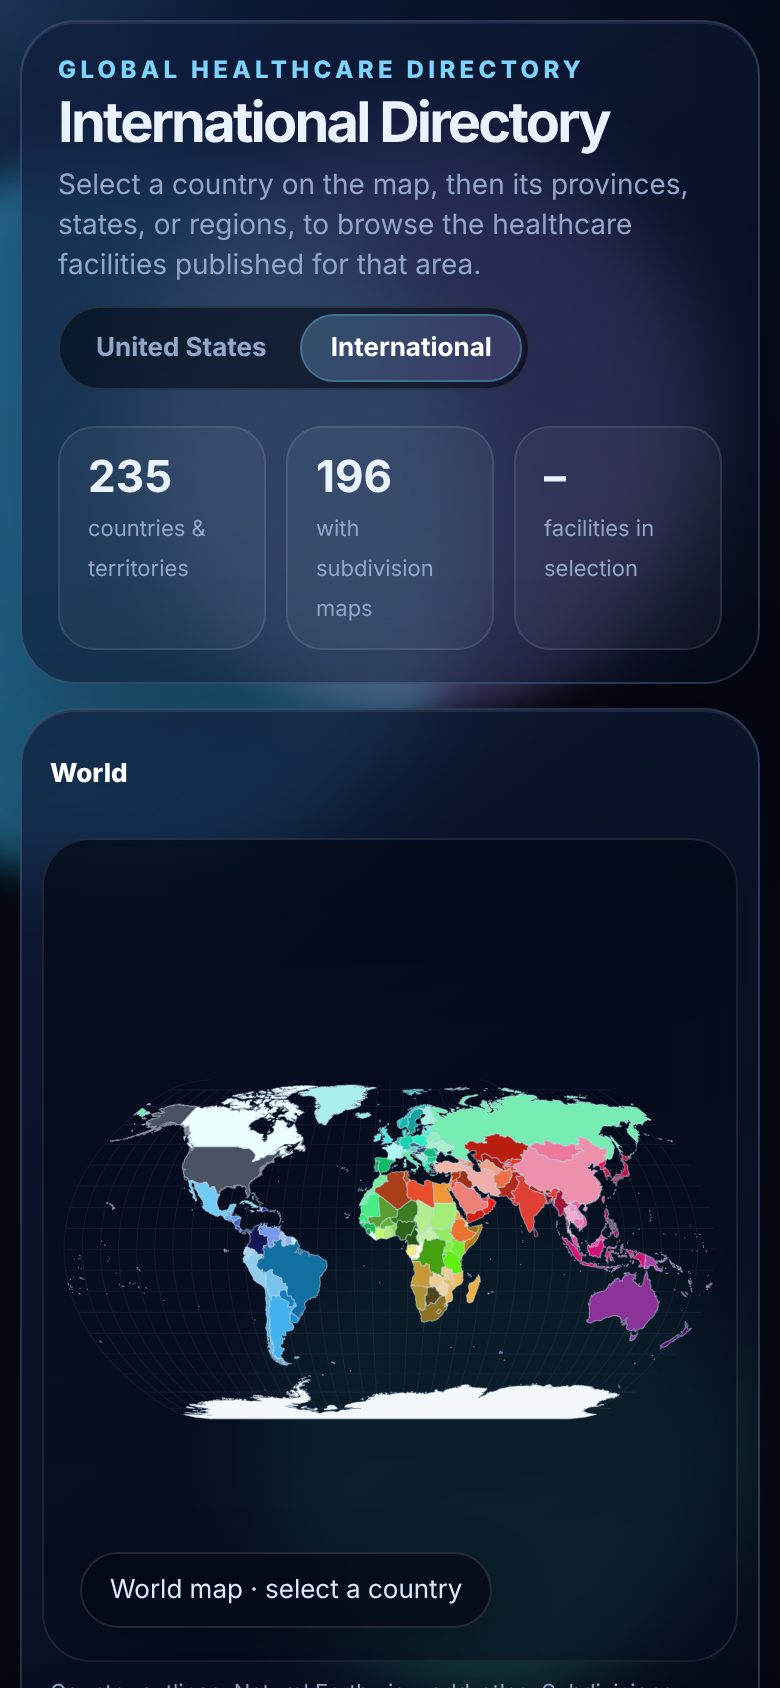
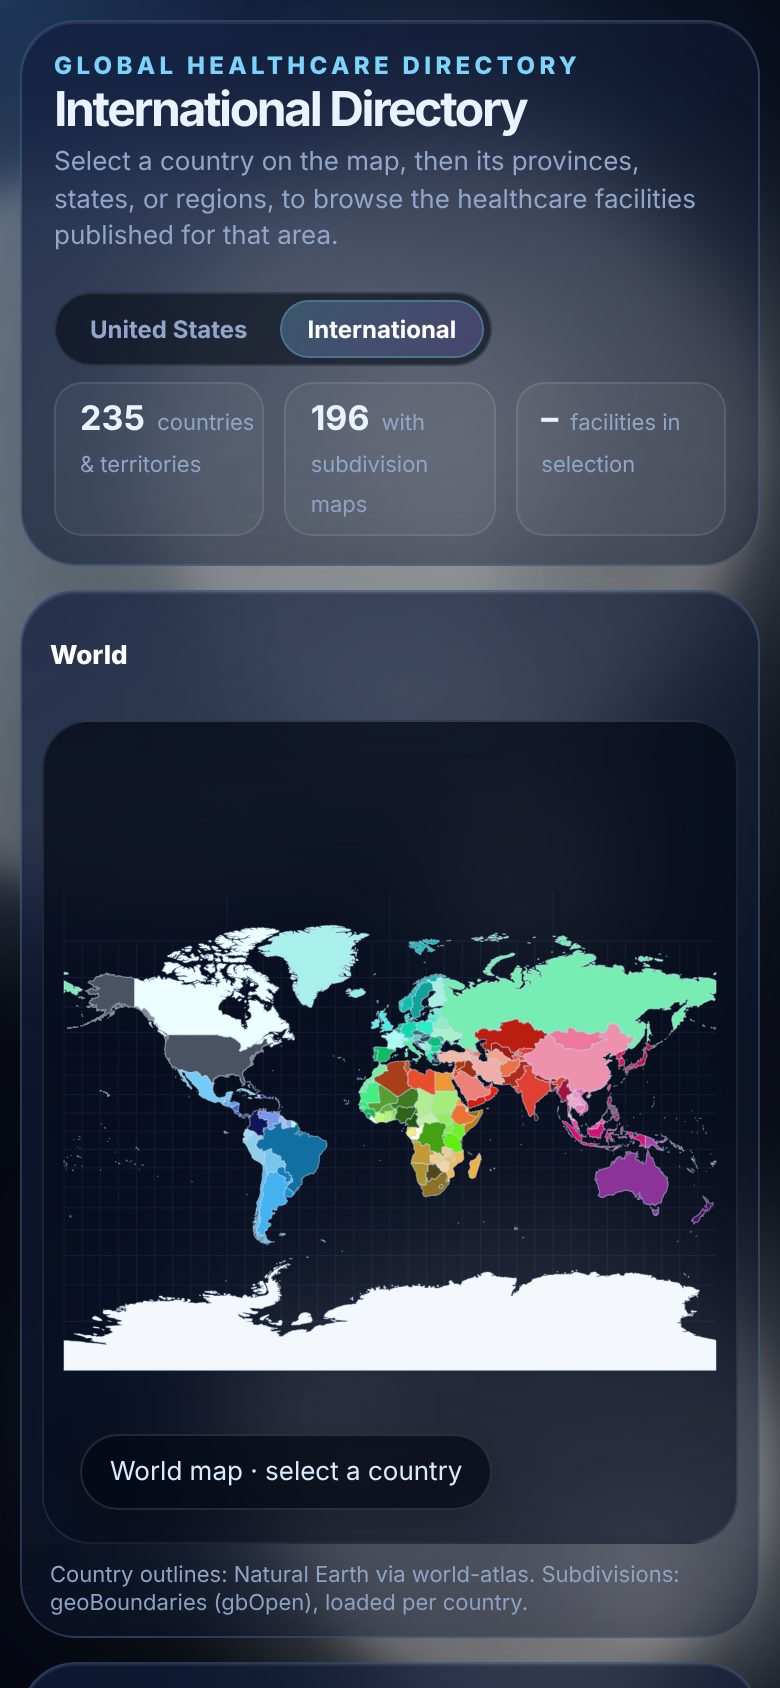
Flat Miller projection and a compact header with the toggle above the stats
- Replace the curved Natural Earth projection with a flat Miller cylindrical
  projection (straight meridians and parallels). Country views now re-centre
  east-west only instead of rotating onto the country, so Canada, Greenland
  and the Nordic countries are no longer curved or tilted.
- Header: the United States / International toggle moves above the stat cards
  on the right; title, subtitle and stats are compacted. Header height drops
  from ~200px to ~120px and the map area grows from ~640px to ~724px tall
  at 1600x1000.

Claude-Session: https://claude.ai/code/session_01Qy7vVREGma9DSC7PB3AgeL

diff --git a/assets/js/world-map.js b/assets/js/world-map.js
@@ -19,7 +19,12 @@ const directoryCountries = COUNTRIES.filter(c => !c.redirect && !c.noDirectory);
 const FLY_MS = 750;
 
 let width = 0, height = 0;
-const projection = d3.geoNaturalEarth1();
+/* Flat (cylindrical) Miller projection: straight meridians and parallels, no globe-like curvature,
+ * and the whole of Antarctica stays on the map. Country views only shift east–west, never tilt. */
+const millerRaw = (lambda, phi) => [lambda, 1.25 * Math.log(Math.tan(Math.PI / 4 + 0.4 * phi))];
+millerRaw.invert = (x, y) => [x, 2.5 * Math.atan(Math.exp(0.8 * y)) - 0.625 * Math.PI];
+const flatProjection = () => d3.geoProjection(millerRaw);
+const projection = flatProjection();
 const path = d3.geoPath(projection);
 let worldFeatures = [];
 let focusTarget = {target: {type: 'Sphere'}, rotate: [0, 0]};
@@ -58,15 +63,15 @@ function focusGeometry(feature) {
 
 function fitParams(target, rotate) {
   const pad = Math.max(16, Math.min(width, height) * 0.06);
-  const p = d3.geoNaturalEarth1().rotate(rotate).precision(0.2);
+  const p = flatProjection().rotate(rotate).precision(0.2);
   if (target.type === 'Sphere') p.fitExtent([[10, 10], [width - 10, height - 10]], target);
   else p.fitExtent([[pad, pad], [width - pad, height - pad]], target);
   return {r: rotate, k: p.scale(), t: p.translate()};
 }
-/* Centre the projection on a country so its meridians stand upright (no Natural Earth shear). */
+/* Centre the flat map on a country by shifting east–west only; tilting north–south would bend it. */
 function countryRotation(feature) {
-  const [lon, lat] = d3.geoCentroid(feature);
-  return [-lon, -lat];
+  const [lon] = d3.geoCentroid(feature);
+  return [-lon, 0];
 }
 
 /* Smoothly fly from the current view to `target`, then re-project every layer at full precision.

diff --git a/assets/css/world.css b/assets/css/world.css
@@ -138,10 +138,23 @@ h2{margin:0;font-size:26px;letter-spacing:-.03em}
 .field div{font-weight:650;overflow-wrap:anywhere}
 .field a{color:var(--accent)}
 
+/* Compact header: title block left, directory toggle stacked above the stats on the right, so the
+ * map gets the height. */
+.header{padding:12px 22px;align-items:center}
+.header h1{font-size:clamp(24px,2.4vw,34px);margin-top:4px}
+.header .sub{font-size:13px;margin-top:5px;max-width:640px}
+.headerSide{display:flex;flex-direction:column;align-items:flex-end;gap:8px}
+.headerSide .directorySwitch{margin-top:0}
+.headerSide .directorySwitch a{padding:6px 13px;font-size:12px}
+.headerSide .stat{min-width:0;padding:7px 12px;border-radius:14px}
+.headerSide .stat b{font-size:17px;display:inline;margin-right:6px}
+.headerSide .stat span{font-size:11px}
+.app{gap:12px;padding-top:14px}
 @media(max-width:1100px){.app{grid-template-columns:minmax(0,1fr) 340px}}
 @media(max-width:860px){
   .app{display:flex;flex-direction:column;padding:10px;gap:12px;height:auto;min-height:100vh}
-  .header{padding:16px 18px}.stats{justify-content:flex-start}.stat{min-width:0;flex:1}
+  .header{padding:14px 16px}.stats{justify-content:flex-start}.stat{min-width:0;flex:1}
+  .headerSide{align-items:stretch;width:100%}.headerSide .directorySwitch{align-self:flex-start}
   .mapPanel{height:62vh;min-height:380px;padding:10px}
   .sidePanel{position:static;height:auto;min-height:0;overflow:visible}
   .facilityList{max-height:65vh}

diff --git a/world.html b/world.html
@@ -18,15 +18,17 @@
         <div class="eyebrow">Global Healthcare Directory</div>
         <h1>International Directory</h1>
         <p class="sub">Select a country on the map, then its provinces, states, or regions, to browse the healthcare facilities published for that area.</p>
+      </div>
+      <div class="headerSide">
         <nav class="directorySwitch" aria-label="Directory">
           <a href="/">United States</a>
           <a href="/world.html" aria-current="page">International</a>
         </nav>
-      </div>
-      <div class="stats">
-        <div class="stat"><b id="statCountries">–</b><span>countries &amp; territories</span></div>
-        <div class="stat"><b id="statSubdivided">–</b><span>with subdivision maps</span></div>
-        <div class="stat"><b id="statFacilities">–</b><span>facilities in selection</span></div>
+        <div class="stats">
+          <div class="stat"><b id="statCountries">–</b><span>countries &amp; territories</span></div>
+          <div class="stat"><b id="statSubdivided">–</b><span>with subdivision maps</span></div>
+          <div class="stat"><b id="statFacilities">–</b><span>facilities in selection</span></div>
+        </div>
       </div>
     </header>
 

diff --git a/docs/INTERNATIONAL_DIRECTORY.md b/docs/INTERNATIONAL_DIRECTORY.md
@@ -43,6 +43,8 @@ There is no server, Worker, or new paid service.
 
 * **Country outlines:** world-atlas `countries-50m.json`, loaded once (≈0.75 MB). No enclosing globe
   outline is drawn: the projection's sphere path has no stroke or fill.
+* **Projection:** flat Miller cylindrical (straight meridians and parallels, owner request). Country views
+  re-centre east–west only, so the map never curves or tilts.
 * **Subdivisions:** geoBoundaries gbOpen *simplified* GeoJSON, **exactly as published**, pinned to commit
   [`5c25134028196d43ce97b5071934fd0cfc92f09f`](https://github.com/wmgeolab/geoBoundaries/tree/5c25134028196d43ce97b5071934fd0cfc92f09f/releaseData/gbOpen).
   Each file's byte size and SHA-256 come from its Git LFS pointer at that commit.
